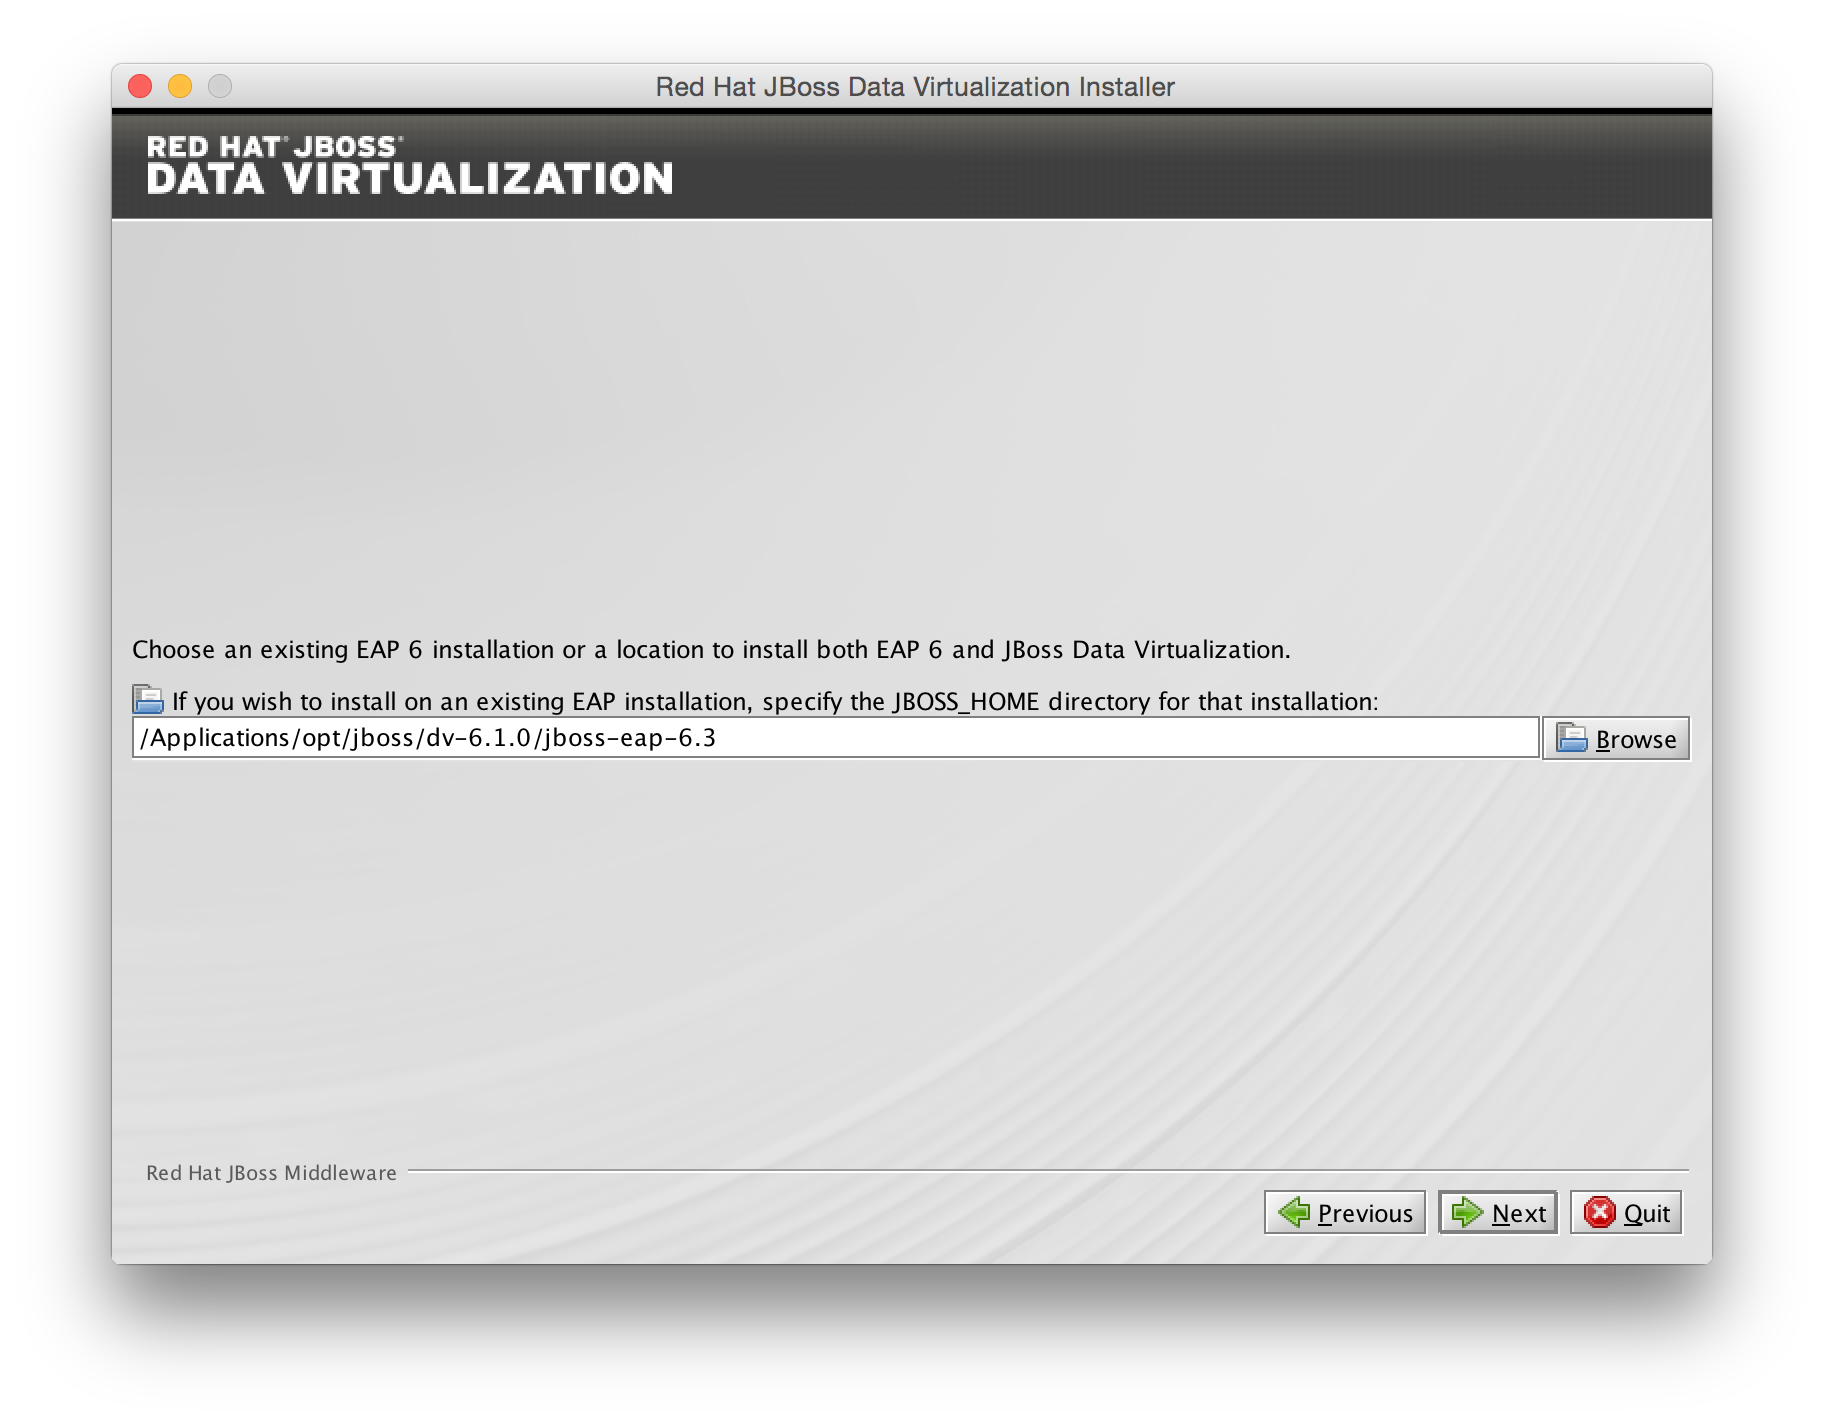
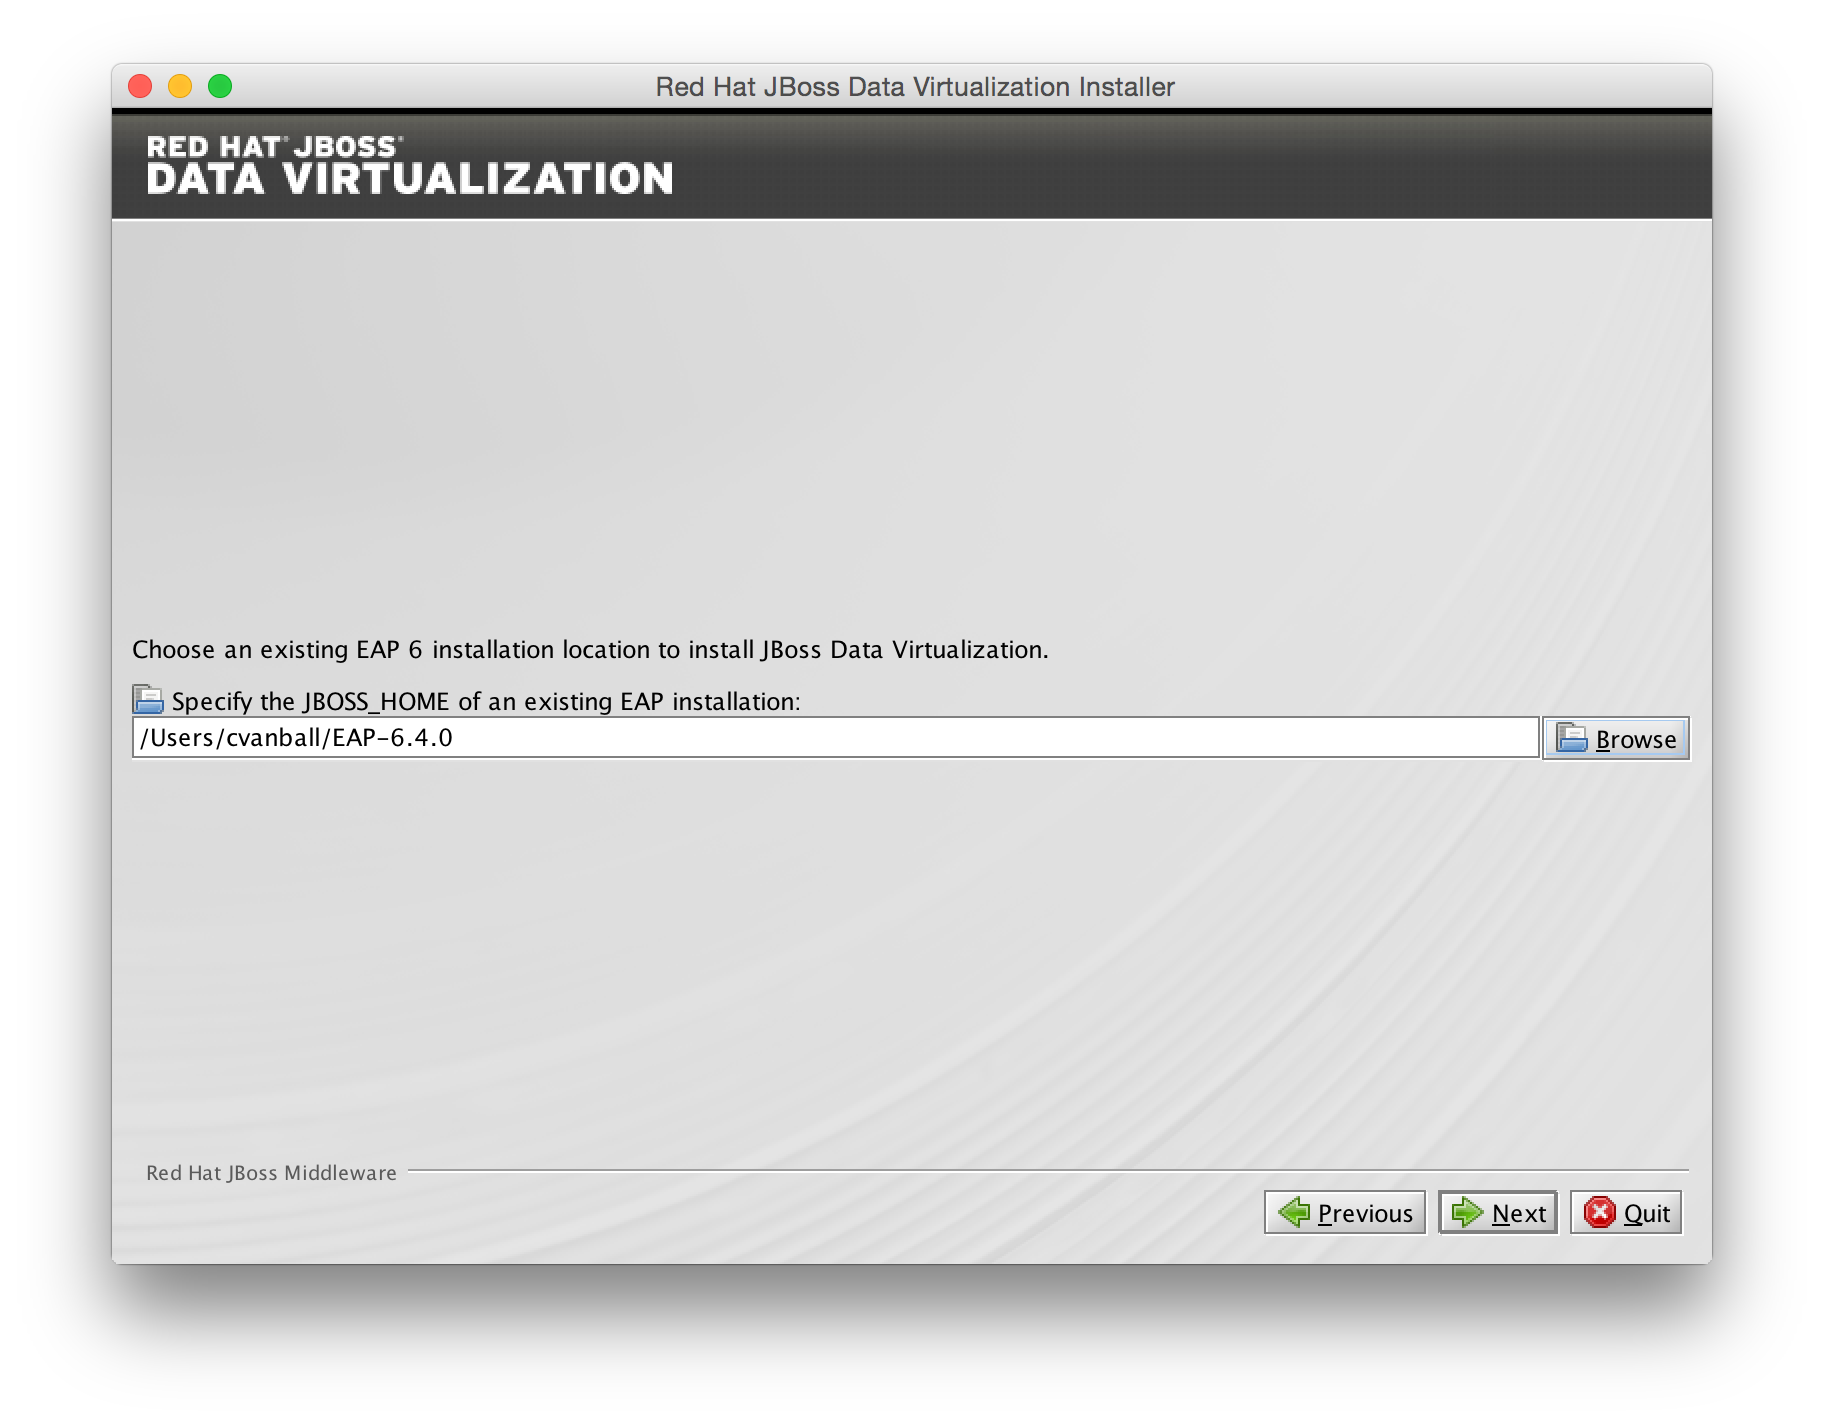
Upgraded install instructions to DV 6.2.0GA

Changed region(s): [[0.0938, 0.4326, 0.6875, 0.5253], [0.0938, 0.0309, 0.125, 0.0618]]

diff --git a/docs/jboss-dv-workshop.html b/docs/jboss-dv-workshop.html
@@ -1040,11 +1040,48 @@ Run the installer using java at the command prompt:</p>
 </div>
 </div>
 <div class="paragraph">
-<p>The latest version available is 6.1.0.redhat-3 and to run the installer at the command prompt use the following command:</p>
+<p>The latest version available is 6.2.0.redhat-2 and to run the installer at the command prompt use the following command:</p>
+</div>
+<div class="admonitionblock note">
+<table>
+<tr>
+<td class="icon">
+<div class="title">Note</div>
+</td>
+<td class="content">
+Starting from JBoss Data Virtualization 6.2.0 one need to install JBoss EAP 6.4.0 including patch 3 first.
+</td>
+</tr>
+</table>
+</div>
+<div class="paragraph">
+<p>Install JBoss EAP 6.4.0</p>
 </div>
 <div class="listingblock">
 <div class="content">
-<pre class="CodeRay highlight"><code data-lang="bash">$ java -jar jboss-dv-installer-6.1.0.redhat-3.jar</code></pre>
+<pre class="CodeRay highlight"><code data-lang="bash">$ unzip jboss-eap-6.4.0.zip
+$ cd jboss-eap-6.4/bin
+$ ./jboss-cli.sh
+You are disconnected at the moment. Type 'connect' to connect to the server or 'help' for the list of supported commands.
+[disconnected /]</code></pre>
+</div>
+</div>
+<div class="paragraph">
+<p>Apply patch 3 to previously installed JBoss EAP 6.4.0 environment</p>
+</div>
+<div class="listingblock">
+<div class="content">
+<pre class="CodeRay highlight"><code data-lang="bash">[disconnected /] patch apply jboss-eap-6.4.3-patch.zip
+{
+    &quot;outcome&quot; : &quot;success&quot;,
+    &quot;result&quot; : {}
+}
+[disconnected /] exit</code></pre>
+</div>
+</div>
+<div class="listingblock">
+<div class="content">
+<pre class="CodeRay highlight"><code data-lang="bash">$ java -jar jboss-dv-installer-6.2.0.redhat-2.jar</code></pre>
 </div>
 </div>
 <div class="paragraph">
@@ -1057,19 +1094,11 @@ Run the installer using java at the command prompt:</p>
 </div>
 </div>
 <div class="paragraph">
-<p>A filepath confirmation dialogue box will appear. In the Select the installation path field, type the path where you want JBoss Data Virtualization to be installed or click Browse to navigate to the desired location. When the Select the installation path field shows the correct path, click <b class="button">Next</b>.</p>
+<p>A filepath confirmation dialogue box will appear. Choose an existing EAP 6 installation location to install JBoss Data Virtualization, click <b class="button">Next</b>.</p>
 </div>
 <div class="imageblock">
 <div class="content">
 <img src="images/1.1-DV-FilePath.png" alt="1.1 DV FilePath">
-</div>
-</div>
-<div class="paragraph">
-<p>When you are prompted about the specified location being created or overwritten, review the message and, if satisfied, click <b class="button">OK</b> and then press <b class="button">Next</b>.</p>
-</div>
-<div class="imageblock">
-<div class="content">
-<img src="images/1.1-DV-FilePath2.png" alt="1.1 DV FilePath2">
 </div>
 </div>
 <div class="paragraph">

diff --git a/README.md b/README.md
@@ -5,7 +5,7 @@ Prerequisites
 
 1. OpenJDK 1.7 or 1.8 or Oracle JDK 1.7 or 1.8
 
-2. Download [Red Hat JBoss Data Virtualization 6.1.0.GA](http://www.jboss.org/products/datavirt/overview/)
+2. Download [Red Hat JBoss Data Virtualization 6.2.0.GA](http://www.jboss.org/products/datavirt/overview/)
 
 3. Download [Red Hat JBoss Developer Studio 8.1.0.GA](http://www.jboss.org/products/devstudio/overview/)
 
